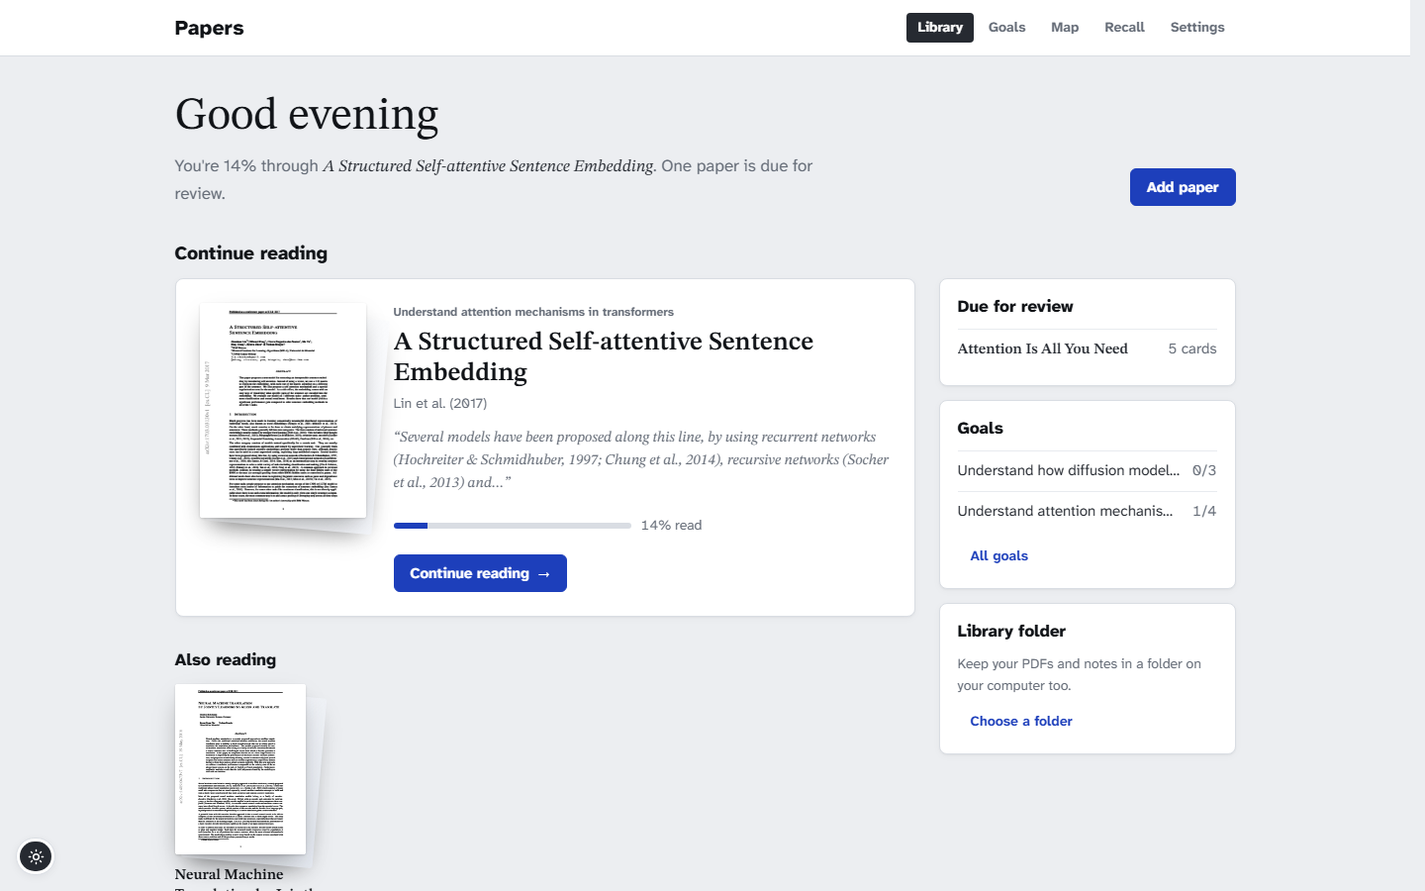
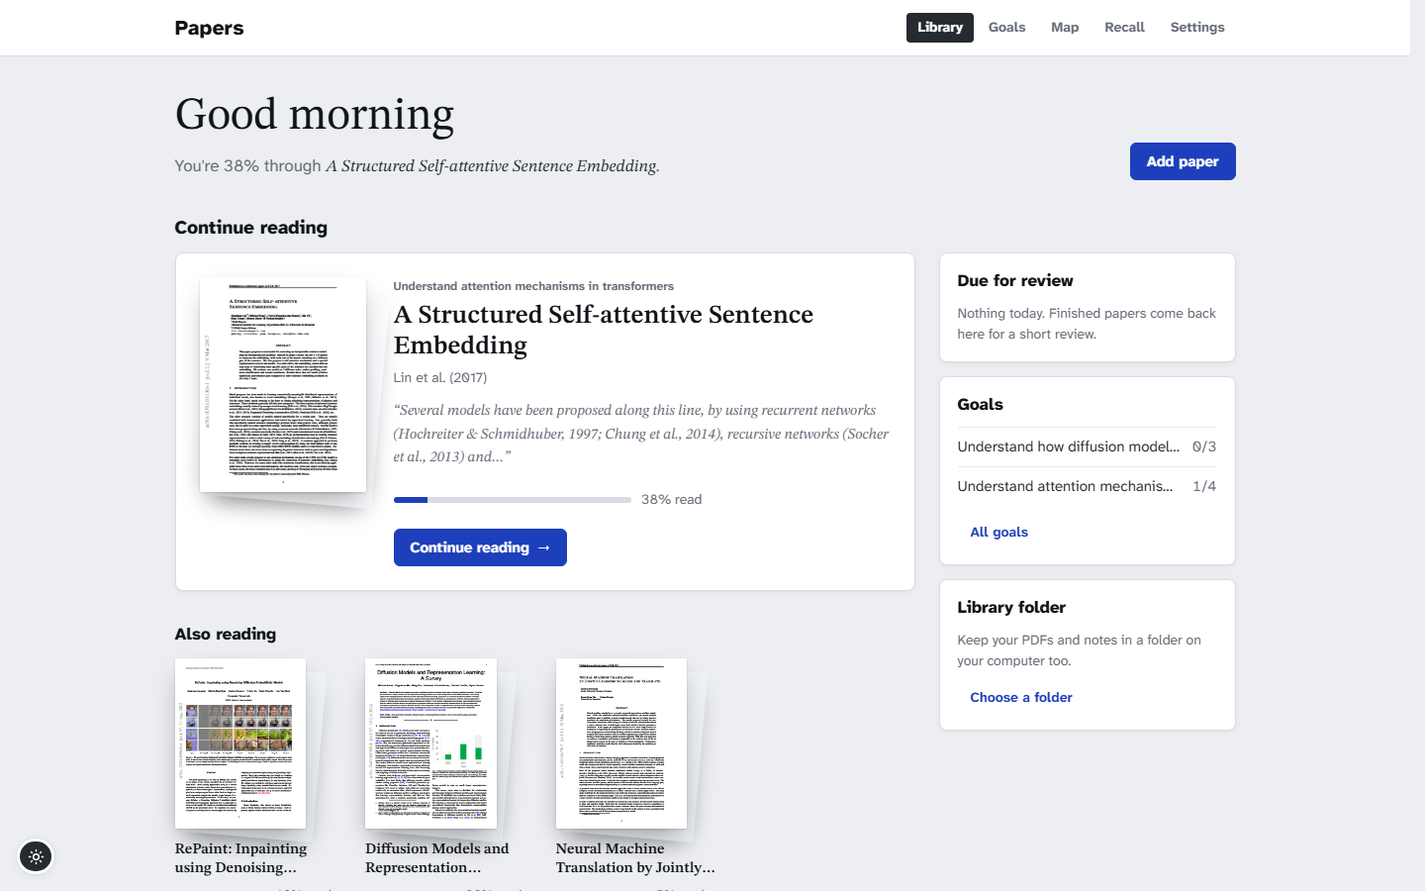
Manage goals, clearer test-yourself, plot auto-fit, key field safe from autofill
- Goals can be renamed and deleted (papers stay in the library)
- Test yourself opens with two choices; written answers go one question at a time
  and can be graded part-way
- "Understood" on the paper page says where it comes from
- Deep answers say they are still working after a while
- Plots refit the axis when the given range dwarfs the curve
- The API key field is no longer a password field a manager can fill
- README starts with the library and shows chat figure and widget sessions

diff --git a/papers/static/js/paper/review.js b/papers/static/js/paper/review.js
@@ -31,7 +31,8 @@ export async function quizPage(id, stale) {
     const q = p.quiz[i];
     revealed = false;
     app.innerHTML = `<div class="container page narrow">${crumbs}
-      <p class="card-count">Card ${i + 1} of ${p.quiz.length}</p>
+      <p class="card-count"><span>Card ${i + 1} of ${p.quiz.length}</span>
+        <span class="bar" aria-hidden="true"><span style="width:${Math.round(i / p.quiz.length * 100)}%"></span></span></p>
       <div class="sheet flashcard">
         <p class="card-question">${esc(q.question)}</p>
         <div id="answer" hidden><p class="card-answer">${esc(q.answer)}</p></div>
@@ -39,11 +40,29 @@ export async function quizPage(id, stale) {
       <div class="card-actions" id="actions">
         <button class="button" id="reveal">Show answer <kbd>Space</kbd></button>
       </div>
-      <p class="card-alt">Think of your answer, then reveal it and rate yourself honestly.
-        Prefer to write? <button class="link-button" id="typed">Type answers for the AI to grade</button></p>
+      <p class="card-alt">Think of your answer, then reveal it and rate yourself honestly.</p>
     </div>`;
     app.querySelector("#reveal").onclick = reveal;
-    app.querySelector("#typed").onclick = () => typedQuiz(p, crumbs);
+  };
+  // The first screen: the two ways to test yourself, side by side.
+  const choose = () => {
+    const n = p.quiz.length;
+    app.innerHTML = `<div class="container page narrow">${crumbs}
+      <div class="page-head"><h1>Test yourself</h1>
+        <p class="lede">${n} question${n === 1 ? "" : "s"} on this paper. Pick how you want to answer.</p></div>
+      <div class="review-ways">
+        <button type="button" class="sheet review-way" id="way-cards">
+          <span class="way-name">Flashcards</span>
+          <span class="way-text">Think of the answer, turn the card, and rate yourself. Quick, and needs no AI.</span>
+          <span class="way-go">Start <span class="arrow" aria-hidden="true">→</span></span></button>
+        <button type="button" class="sheet review-way" id="way-typed">
+          <span class="way-name">Written answers</span>
+          <span class="way-text">Type each answer in your own words. The AI grades them against the paper and says what you missed.</span>
+          <span class="way-go">Start <span class="arrow" aria-hidden="true">→</span></span></button>
+      </div>
+      ${p.understanding == null ? "" : `<p class="card-alt">Last time you understood ${pct(p.understanding)} of this paper.</p>`}</div>`;
+    app.querySelector("#way-cards").onclick = () => { addEventListener("keydown", onKey); card(); };
+    app.querySelector("#way-typed").onclick = () => typedQuiz(p, crumbs);
   };
   const reveal = () => {
     if (revealed) return;
@@ -86,8 +105,7 @@ export async function quizPage(id, stale) {
     if (e.key === " " && !revealed) { e.preventDefault(); reveal(); }
     else if (revealed && ["1", "2", "3"].includes(e.key)) rate(RATINGS[Number(e.key) - 1][0]);
   };
-  addEventListener("keydown", onKey);
-  card();
+  choose();
   return () => removeEventListener("keydown", onKey);
 }
 
@@ -99,25 +117,62 @@ async function moreQuestions(p) {
   return quiz;
 }
 
+// Written answers, one question on screen at a time; after grading, every question is shown with its feedback.
 function typedQuiz(p, crumbs) {
   const scores = [];  // one per graded question; questions added later are graded on their own
-  const question = (q, i) => `<div class="sheet question">
+  let at = 0;         // which of the questions still to grade is on screen
+  const todo = () => p.quiz.map((_, i) => i).filter((i) => scores[i] === undefined);
+  const question = (q, i) => `<div class="sheet question" id="q${i}">
       <label for="a${i}"><span class="q-num">Question ${i + 1}</span>${esc(q.question)}</label>
-      <textarea id="a${i}" rows="3"></textarea>
+      <textarea id="a${i}" rows="6"></textarea>
       <div class="feedback" id="fb${i}"></div></div>`;
   app.innerHTML = `<div class="container page narrow">${crumbs}
     <div class="page-head"><h1>Test yourself</h1>
     <p class="lede">Answer in your own words. The AI grades all your answers in one go, against the paper, not against exact wording.</p></div>
+    <div class="sheet quiz-result" id="result" hidden></div>
+    <p class="card-count" id="where"></p>
     <form id="quiz" class="quiz">${p.quiz.map(question).join("")}
-      <div class="quiz-foot"><button class="button" id="grade">Grade my answers</button>
-        <button type="button" class="button secondary" id="more" hidden>More questions</button><span id="score" class="score"></span></div>
+      <div class="quiz-foot"><button type="button" class="button secondary" id="back">Back</button>
+        <button type="button" class="button" id="next">Next question</button>
+        <button class="button" id="grade">Grade my answers</button>
+        <button type="button" class="button secondary" id="more" hidden>More questions</button>
+        <button class="link-button" id="grade-now">Grade what I've written so far</button></div>
     </form></div>`;
   const q = (sel) => app.querySelector(sel);
 
+  // Before grading: only the current question. After: all of them, with the score on top.
+  const show = (focus = true) => {
+    const open = todo();
+    at = Math.min(at, Math.max(open.length - 1, 0));
+    p.quiz.forEach((_, i) => { q(`#q${i}`).hidden = open.length > 0 && i !== open[at] && scores[i] === undefined; });
+    const last = at === open.length - 1;
+    const written = open.filter((i) => q(`#a${i}`).value.trim()).length;
+    q("#where").hidden = !open.length;
+    q("#where").innerHTML = `<span>${at + 1} of ${open.length}${written ? ` · ${written} answered` : ""}</span>
+      <span class="bar" aria-hidden="true"><span style="width:${Math.round((at + 1) / (open.length || 1) * 100)}%"></span></span>`;
+    q("#back").hidden = !open.length || at === 0;
+    q("#next").hidden = !open.length || last;
+    q("#grade").hidden = !open.length || !last;
+    q("#grade-now").hidden = !open.length || last || !written;
+    q("#more").hidden = open.length > 0;
+    if (open.length && focus) q(`#a${open[at]}`).focus();
+  };
+  q("#back").onclick = () => { at -= 1; show(); };
+  q("#next").onclick = () => { at += 1; show(); };
+  q("#quiz").oninput = () => show(false);
+  q("#quiz").onkeydown = (e) => { // Ctrl+Enter: on to the next question, or grade on the last one
+    if (e.key !== "Enter" || !(e.ctrlKey || e.metaKey) || !todo().length) return;
+    e.preventDefault();
+    (q("#next").hidden ? q("#grade") : q("#next")).click();
+  };
+
   q("#quiz").onsubmit = (e) => {
     e.preventDefault();
-    busy(q("#grade"), "Grading…", async () => {
-      const only = p.quiz.map((_, i) => i).filter((i) => scores[i] === undefined);
+    const early = e.submitter === q("#grade-now"); // grade only what is written; the rest stay to answer
+    const only = todo().filter((i) => !early || q(`#a${i}`).value.trim());
+    if (!only.length) return;
+    const grading = early ? q("#grade-now") : q("#grade");
+    busy(grading, "Grading…", async () => {
       const answers = p.quiz.map((_, i) => q(`#a${i}`).value);
       const r = await api(`/papers/${p.id}/quiz/grade`, { method: "POST", json: { answers, only } });
       r.results.forEach((res, k) => {
@@ -125,12 +180,21 @@ function typedQuiz(p, crumbs) {
         scores[i] = res.score;
         const level = res.score >= 0.8 ? "good" : res.score >= 0.4 ? "partial" : "miss";
         q(`#a${i}`).readOnly = true;
+        q(`#a${i}`).rows = 3;
         q(`#fb${i}`).innerHTML = `<p class="grade"><span class="score-pill score-${level} num">${pct(res.score)}</span><span>${esc(res.feedback)}</span></p>
           <details><summary>Reference answer</summary><p>${esc(p.quiz[i].answer)}</p></details>`;
       });
-      q("#score").innerHTML = `You understood <strong class="num">${pct(scores.reduce((a, b) => a + b, 0) / scores.length)}</strong> of this paper`;
-      q("#grade").hidden = true;
-      q("#more").hidden = false;
+      q("#result").hidden = false;
+      const graded = scores.filter((x) => x !== undefined), left = todo().length;
+      const mean = pct(graded.reduce((a, b) => a + b, 0) / graded.length);
+      q("#result").innerHTML = left
+        ? `<p class="score"><strong class="num">${mean}</strong> on the ${graded.length} answer${graded.length === 1 ? "" : "s"} graded so far</p>
+        <p class="hint">${left} question${left === 1 ? "" : "s"} still to answer. What each graded answer missed is below.</p>`
+        : `<p class="score">You understood <strong class="num">${mean}</strong> of this paper</p>
+        <p class="hint">Each answer and what it missed is below. This score is what the paper's page shows as "Understood".</p>`;
+      q("#grade").textContent = "Grade my answers";
+      show(false);
+      q("#result").scrollIntoView({ block: "start", behavior: "smooth" });
     });
   };
 
@@ -139,9 +203,10 @@ function typedQuiz(p, crumbs) {
     p.quiz = await moreQuestions(p);
     if (p.quiz.length === before) return;
     q(".quiz-foot").insertAdjacentHTML("beforebegin", p.quiz.slice(before).map((x, k) => question(x, before + k)).join(""));
-    q("#grade").hidden = false;
     q("#grade").textContent = "Grade the new answers";
-    q("#more").hidden = true;
-    q(`#a${before}`).focus();
+    q("#result").hidden = true;
+    at = 0;
+    show();
   });
+  show();
 }

diff --git a/papers/static/js/pages/goals.js b/papers/static/js/pages/goals.js
@@ -1,6 +1,7 @@
 // Goals: what you're working on, each with its papers; and one goal's page.
 import { addPaperControl, api, app, bindAddPaper, bindRows, busy, cite, empty, esc, loading, moreButton, PAGE, paperRow, setBar, tableHead, toast } from "../core.js";
 import { cover, drawCovers } from "../covers.js";
+import { iconButton } from "../icons.js";
 import { coverFan, looseCard, paperCard, plural, shorten } from "./shared.js";
 
 // ---------- Goals ----------
@@ -90,8 +91,9 @@ export async function goalPage(id, stale) {
 
   app.innerHTML = `<div class="container page">
     <div class="page-head page-head-split">
-      <div><h1 class="page-title goal-title">${esc(goal.goal)}</h1>
-      <p class="lede">${plural(papers.length, "paper")}, ${read} finished.</p></div>
+      <div class="goal-head"><h1 class="page-title goal-title">${esc(goal.goal)}</h1>
+      <div class="goal-sub"><p class="lede">${plural(papers.length, "paper")}, ${read} finished.</p>
+      <span class="goal-manage">${iconButton("edit", "Rename this goal", { attrs: 'id="goal-rename"' })}${iconButton("trash", "Delete this goal", { attrs: 'id="goal-delete"' })}</span></div></div>
       <span class="bar-actions"><a class="button quiet" href="/api/bibtex?topic_id=${id}" download>Export BibTeX</a>${addPaperControl(id)}</span>
     </div>
     <section>
@@ -113,6 +115,41 @@ export async function goalPage(id, stale) {
 
   bindAddPaper();
   drawCovers(app);
+  // ----- Rename or delete the goal -----
+  app.querySelector("#goal-rename").onclick = () => {
+    const title = app.querySelector(".goal-title");
+    if (app.querySelector("#goal-name")) return app.querySelector("#goal-name").focus();
+    title.hidden = true;
+    title.insertAdjacentHTML("afterend", `<form class="goal-rename" id="goal-rename-form">
+      <textarea id="goal-name" rows="3" required aria-label="The goal, in a few words">${esc(goal.goal)}</textarea>
+      <div class="goal-rename-foot"><button class="button">Save</button>
+        <button type="button" class="button quiet" id="goal-rename-cancel">Cancel</button></div></form>`);
+    const form = app.querySelector("#goal-rename-form");
+    const close = () => { form.remove(); title.hidden = false; };
+    form.querySelector("textarea").select();
+    form.querySelector("#goal-rename-cancel").onclick = close;
+    form.onkeydown = (e) => { if (e.key === "Escape") close(); };
+    form.onsubmit = (e) => {
+      e.preventDefault();
+      busy(e.submitter, "Saving…", async () => {
+        const saved = await api(`/topics/${id}`, { method: "PATCH", json: { goal: form.querySelector("textarea").value.trim() } });
+        goal.goal = saved.goal;
+        title.textContent = saved.goal;
+        setBar({ back: { href: "#/goals", label: "Goals" }, title: saved.goal });
+        close();
+        toast("Goal renamed. The roadmap was made for the old words; make a new one if the goal changed.");
+      });
+    };
+  };
+  app.querySelector("#goal-delete").onclick = async (e) => {
+    const n = (await api(`/papers?topic_id=${id}`)).length;
+    if (!confirm(`Delete the goal "${shorten(goal.goal, 80)}"?\n\n${n ? `Its ${plural(n, "paper")} stay in your library, in no goal.` : "It has no papers."} Its roadmap is removed.`)) return;
+    busy(e.target.closest("button"), "", async () => {
+      await api(`/topics/${id}`, { method: "DELETE" });
+      toast("Goal deleted. Its papers are still in your library.");
+      location.hash = "#/goals";
+    });
+  };
   bindRows(app.querySelector("#mine"), () => window.dispatchEvent(new HashChangeEvent("hashchange")));
   app.querySelector(".as-list")?.addEventListener("toggle", () => drawCovers(app.querySelector("#mine")));
   app.querySelector("#mine").addEventListener("click", (e) => {

diff --git a/papers/static/js/chat/widgets.js b/papers/static/js/chat/widgets.js
@@ -126,6 +126,13 @@ function live(stage, spec, paint) {
   run(sliders(stage.querySelector(".widget-sliders"), spec.params || (spec.param ? [spec.param] : []), run));
 }
 
+// The next round number at or above v (1, 1.5, 2, 3, 4, 5, 7.5 or 10 times a power of ten).
+function roundUp(v) {
+  if (!(v > 0)) return 1;
+  const p = 10 ** Math.floor(Math.log10(v));
+  return [1, 1.5, 2, 3, 4, 5, 7.5, 10].find((m) => m * p >= v * (1 - 1e-9)) * p;
+}
+
 // ---------- plot ----------
 function plot(stage, spec) {
   const W = widthOf(stage), H = Math.round(clamp(W * .5, 200, 300)), pad = { l: 46, r: 14, t: 12, b: 34 };
@@ -149,6 +156,18 @@ function plot(stage, spec) {
     const dots = points.map((p) => [val(p.x, scope), val(p.y, scope)]);
     const ys = [...pts.flat(), ...dots.filter((d) => ok(...d))].map(([, y]) => y);
     let y0 = +(spec.y?.from ?? Math.min(...ys, 0)), y1 = +(spec.y?.to ?? Math.max(...ys, 0));
+    // A range given by the model that is far taller than the curves (or misses them) draws a flat line. Fit it then,
+    // to round numbers so the axis moves in steps, not continuously, while a slider is dragged.
+    const seen = ys.filter((y) => ok(y));
+    if (seen.length && ok(y0, y1) && y1 > y0 && (spec.y?.from != null || spec.y?.to != null)) {
+      const lo = Math.min(...seen), hi = Math.max(...seen), span = hi - lo;
+      const inside = Math.min(hi, y1) - Math.max(lo, y0);
+      if (span > 0 && (span < .35 * (y1 - y0) || inside < .25 * span)) {
+        const base = lo >= y0 && lo - y0 < span ? y0 : lo - roundUp(span * .08); // keep a floor (often 0) the curve sits on
+        y0 = base;
+        y1 = base + roundUp((hi - base) * 1.05);
+      }
+    }
     if (!ok(y0, y1) || y0 === y1) { y0 = (y0 || 0) - 1; y1 = (y1 || 0) + 1; }
     const sx = (x) => pad.l + (x - x0) / (x1 - x0) * (W - pad.l - pad.r);
     const sy = (y) => H - pad.b - (clamp(y, y0 - (y1 - y0), y1 + (y1 - y0)) - y0) / (y1 - y0) * (H - pad.t - pad.b);
@@ -181,7 +200,7 @@ function plot(stage, spec) {
       : `<text x="${W - pad.r - 4}" y="${sy(at) - 5}" text-anchor="end" fill="${muted}" font-size="11">${esc(fill(m.label, scope))}</text>`;
   }).join("")}
       ${dots.map(([x, y], i) => (!ok(x, y) || x < x0 || x > x1 ? "" : `<circle cx="${sx(x).toFixed(1)}" cy="${sy(y).toFixed(1)}" r="5" fill="${colorOf(points[i].color, i + lines.length)}" stroke="${css("--sheet")}" stroke-width="1.5"/>
-        ${points[i].label ? `<text x="${sx(x) > W - 130 ? sx(x) - 9 : sx(x) + 9}" y="${sy(y) - 8}" text-anchor="${sx(x) > W - 130 ? "end" : "start"}" fill="${text}" font-size="11.5" font-weight="700">${esc(fill(points[i].label, scope))}</text>` : ""}`)).join("")}`;
+        ${points[i].label ? `<text x="${sx(x) > W - 130 ? sx(x) - 9 : sx(x) + 9}" y="${Math.max(sy(y) - 8, pad.t + 25)}" text-anchor="${sx(x) > W - 130 ? "end" : "start"}" fill="${text}" font-size="11.5" font-weight="700">${esc(fill(points[i].label, scope))}</text>` : ""}`)).join("")}`;
   });
 }
 

diff --git a/papers/static/css/paper.css b/papers/static/css/paper.css
@@ -139,3 +139,23 @@
 
 .lightbox-inner { position: relative; }
 .lightbox-close { position: absolute; top: 8px; right: 8px; background: var(--sheet); }
+
+/* The two ways to test yourself, and one written question at a time */
+.review-ways { display: grid; grid-template-columns: 1fr 1fr; gap: 16px; }
+.review-way { display: grid; gap: 10px; align-content: start; padding: 26px 24px; min-height: 210px; text-align: left; font: inherit; color: inherit;
+  cursor: pointer; transition: border-color .2s, transform .25s; }
+.review-way:hover, .review-way:focus-visible { border-color: var(--ink); transform: translateY(-2px); }
+.way-name { font-family: var(--paper); font-size: 24px; font-weight: 600; color: var(--heading); }
+.way-text { color: var(--graphite); line-height: 1.55; }
+.way-go { margin-top: auto; padding-top: 10px; color: var(--ink); font-weight: 700; }
+.card-count { display: flex; align-items: center; gap: 12px; }
+.card-count .bar { flex: 1; width: auto; max-width: 220px; }
+.flashcard { min-height: min(46vh, 420px); align-content: center; }
+.flashcard.done { min-height: 220px; }
+.quiz-result { padding: 20px; margin-bottom: 16px; display: grid; gap: 6px; }
+.quiz-foot .link-button { margin-left: auto; }
+.question[hidden] { display: none; }
+.fact-understood { flex-wrap: wrap; }
+.fact-note { flex-basis: 100%; margin: 0; font-size: 13px; line-height: 1.45; color: var(--pencil); }
+@media (max-width: 640px) { .review-ways { grid-template-columns: 1fr; } }
+@media (prefers-reduced-motion: reduce) { .review-way { transition: none; } }

diff --git a/papers/static/js/paper/overview.js b/papers/static/js/paper/overview.js
@@ -67,7 +67,10 @@ export async function paperPage(id, stale, tab = "overview") {
         <div class="sheet facts">
           <div><span>Status</span>${statusTag(p)}</div>
           <div><span>Read</span><span class="fact-bar">${progressBar(p)}<span class="num">${pct(p.progress)}</span></span></div>
-          <div><span>Understood</span><span class="num">${p.understanding == null ? `<span class="faint">Not tested</span>` : pct(p.understanding)}</span></div>
+          <div class="fact-understood"><span>Understood</span><span class="num">${p.understanding == null ? `<span class="faint">Not tested</span>` : pct(p.understanding)}</span>
+            <p class="fact-note">${p.understanding == null ? "Your score on this paper's questions, once you test yourself."
+    : "Your score the last time you answered this paper's questions."}
+              ${p.quiz?.length || p.text ? `<a href="#/papers/${id}/quiz">${p.understanding == null ? "Test yourself" : "Test again"}</a>` : ""}</p></div>
           ${p.text ? `<div><span>Length</span><span>${minutes(p.text)} min</span></div>` : ""}
         </div>
         ${ancestors.length ? `<div class="sheet trail"><h3>Found through</h3>

diff --git a/papers/static/js/chat/answer.js b/papers/static/js/chat/answer.js
@@ -35,7 +35,10 @@ export function answerView(el, { render, onRetry, onStop } = {}) {
   const seconds = () => Math.round((Date.now() - started) / 1000);
   const tick = () => {
     const s = seconds();
-    statusRow.querySelector(".status-time").textContent = s >= 5 ? ` · ${s}s` : "";
+    const time = s >= 60 ? `${Math.floor(s / 60)}:${String(s % 60).padStart(2, "0")}` : `${s}s`;
+    // A long wait is normal in Deep mode (it reads sections and looks at figures); say so instead of looking stuck.
+    const note = s < 20 ? "" : steps.size ? " · still working; Deep answers often take a minute or two" : s >= 40 ? " · still working" : "";
+    statusRow.querySelector(".status-time").textContent = s >= 5 ? ` · ${time}${note}` : "";
   };
   ticker = setInterval(tick, 1000);
   el.querySelector(".answer-stop").onclick = () => onStop?.();

diff --git a/papers/static/css/goals.css b/papers/static/css/goals.css
@@ -123,3 +123,12 @@ label.rm-row { cursor: pointer; }
 /* Search results on a goal: the abstract reads like the paper. */
 .result details p { font-family: var(--paper); font-size: 16px; line-height: 1.6; color: var(--graphite); max-width: 72ch; margin-top: 6px; }
 .result details summary { font-size: 14px; color: var(--pencil); cursor: pointer; margin-top: 4px; }
+
+/* Rename / delete, next to the goal's title */
+.goal-head { min-width: 0; }
+.goal-sub { display: flex; align-items: center; gap: 10px; margin-top: 6px; }
+.goal-sub .lede { margin-top: 0; }
+.goal-manage { display: inline-flex; gap: 2px; }
+.goal-rename { display: grid; gap: 10px; width: min(560px, 80vw); margin-bottom: 4px; }
+.goal-rename-foot { display: flex; gap: 8px; }
+.goal-rename textarea { font-family: var(--paper); font-size: 22px; line-height: 1.3; }

diff --git a/papers/static/js/pages/settings.js b/papers/static/js/pages/settings.js
@@ -80,7 +80,8 @@ export async function settingsPage(stale) {
       <p class="hint" id="ai-about"></p>
       <div class="ai-field" id="ai-key-field">
         <label for="ai-key">API key</label>
-        <input id="ai-key" type="password" autocomplete="off">
+        <input id="ai-key" class="secret" type="text" name="papers-ai-key" autocomplete="off" autocapitalize="off" autocorrect="off"
+          spellcheck="false" data-1p-ignore data-lpignore="true" data-bwignore data-form-type="other">
         <p class="hint" id="ai-key-where"></p>
       </div>
       <label for="ai-model">Model</label>

diff --git a/papers/static/js/icons.js b/papers/static/js/icons.js
@@ -12,6 +12,7 @@ const PATHS = {
   listen: `<path d="M4 10v4h4l5 4V6L8 10z"/><path d="M16.5 9a4 4 0 0 1 0 6M19 6.5a8 8 0 0 1 0 11"/>`,
   send: `<path d="M12 19V5M6 11l6-6 6 6"/>`,
   stop: `<rect x="7" y="7" width="10" height="10" rx="1.5" fill="currentColor"/>`,
+  edit: `<path d="M4 20h4L19 9l-4-4L4 16z"/><path d="M13.5 6.5l4 4"/>`,
   trash: `<path d="M4 7h16M10 11v6M14 11v6M6 7l1 12a2 2 0 0 0 2 2h6a2 2 0 0 0 2-2l1-12M9 7V4h6v3"/>`,
   play: `<path d="M8 5v14l11-7z" fill="currentColor"/>`,
   pause: `<path d="M8 5v14M16 5v14"/>`,

diff --git a/papers/static/css/settings.css b/papers/static/css/settings.css
@@ -77,3 +77,6 @@ label.check input { width: auto; margin: 0; }
 .ai-can li.no .ai-can-mark { background: transparent; box-shadow: inset 0 0 0 1.5px var(--pencil); color: var(--pencil); }
 .switch-row.is-fixed .toggle-switch { opacity: .55; }
 .switch-row.is-fixed { cursor: default; }
+
+/* The API key: a plain text field shown as dots, so password managers don't fill it with a saved password */
+input.secret:not(:placeholder-shown) { -webkit-text-security: disc; font-family: var(--mono, monospace); letter-spacing: 1px; }

diff --git a/papers/routes/goals.py b/papers/routes/goals.py
@@ -26,6 +26,31 @@ def list_topics():
         return [dict(r) for r in conn.execute("select * from topics order by id desc")]
 
 
+@router.patch("/topics/{topic_id}")
+def rename_topic(topic_id: int, body: TopicIn):
+    goal = body.goal.strip()
+    if not goal:
+        raise HTTPException(400, "A goal needs a few words.")
+    with db.connect() as conn:
+        conn.execute("update topics set goal = ? where id = ?", (goal, topic_id))
+        row = conn.execute("select * from topics where id = ?", (topic_id,)).fetchone()
+    if not row:
+        raise HTTPException(404, "This goal doesn't exist.")
+    return dict(row)
+
+
+@router.delete("/topics/{topic_id}")
+def delete_topic(topic_id: int):
+    """Remove a goal. Its papers stay in the library, in no goal; its roadmap goes with it."""
+    with db.connect() as conn:
+        if not conn.execute("select 1 from topics where id = ?", (topic_id,)).fetchone():
+            raise HTTPException(404, "This goal doesn't exist.")
+        kept = conn.execute("update papers set topic_id = null where topic_id = ?", (topic_id,)).rowcount
+        conn.execute("delete from settings where key = ?", (f"roadmap:{topic_id}",))
+        conn.execute("delete from topics where id = ?", (topic_id,))
+    return {"papers_kept": kept}
+
+
 @router.get("/topics/{topic_id}/search")
 def search_topic(topic_id: int):
     """Papers for a goal: the AI turns it into a few search queries (or the goal itself is the query)."""

diff --git a/tests/test_roadmap.py b/tests/test_roadmap.py
@@ -54,3 +54,14 @@ def test_adding_puts_papers_in_the_goal_and_fetches_their_pdfs(client, goal, mon
     assert all(i["paper_id"] for i in r["stages"][0]["items"])
     # Adding again doesn't make copies.
     assert client.post(f"/api/topics/{goal}/roadmap/add", json={"papers": ["s2-1"]}).json()["added"] == 0
+
+
+def test_a_goal_can_be_renamed_and_removed_keeping_its_papers(client):
+    g = client.post("/api/topics", json={"goal": "Old words"}).json()
+    p = client.post("/api/papers", json={"title": "P", "topic_id": g["id"]}).json()
+    assert client.patch(f"/api/topics/{g['id']}", json={"goal": " New words "}).json()["goal"] == "New words"
+    assert client.patch(f"/api/topics/{g['id']}", json={"goal": "  "}).status_code == 400
+    assert client.delete(f"/api/topics/{g['id']}").json() == {"papers_kept": 1}
+    assert client.get(f"/api/papers/{p['id']}").json()["topic_id"] is None
+    assert client.get("/api/topics").json() == []
+    assert client.delete(f"/api/topics/{g['id']}").status_code == 404
